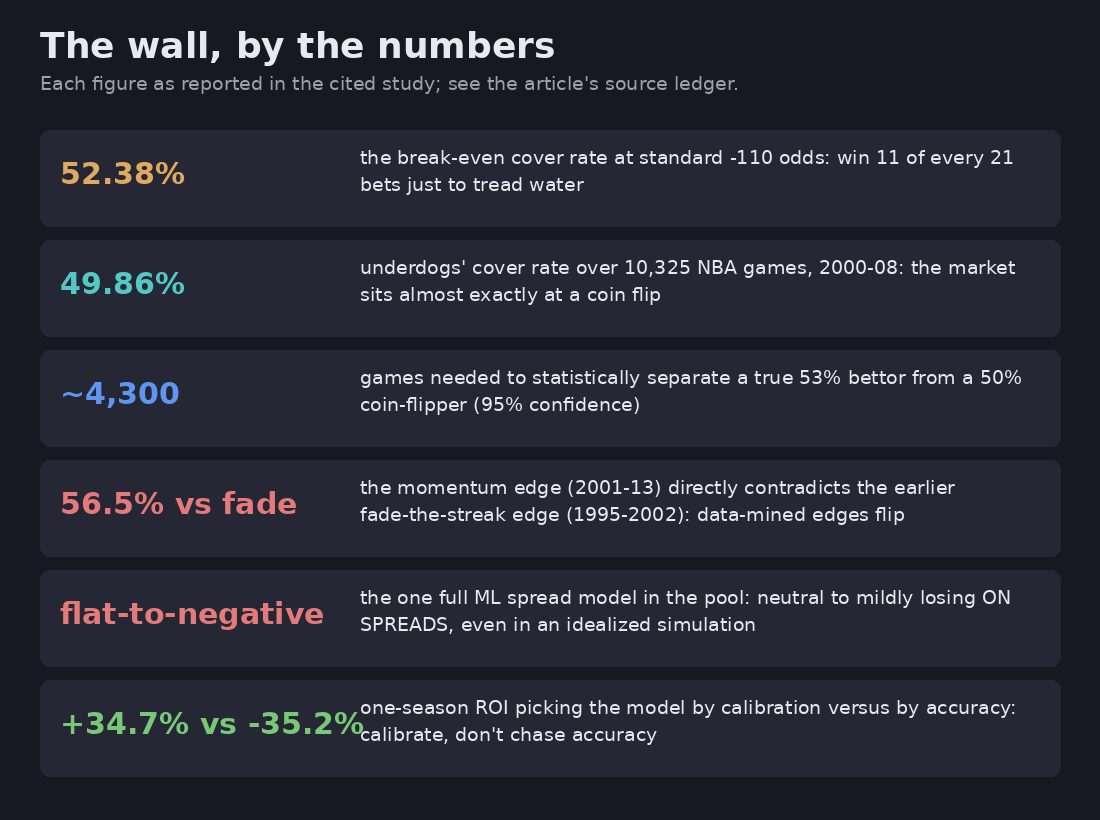
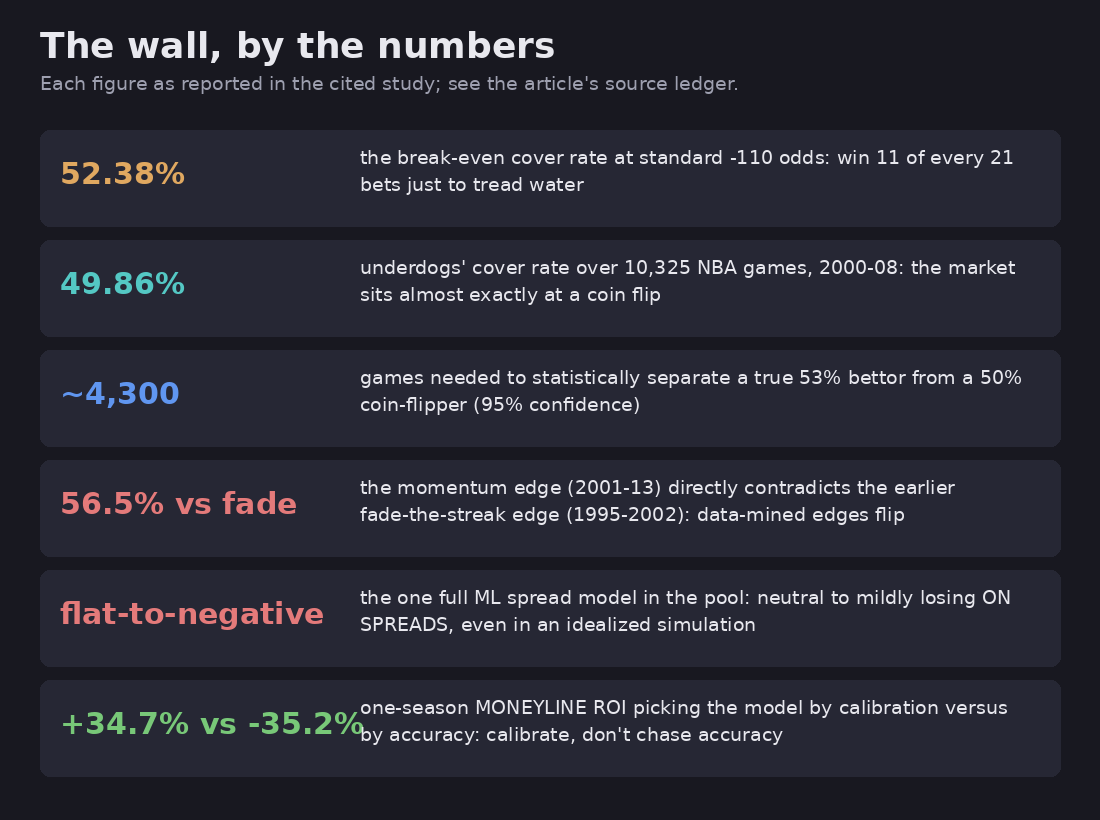
basketball articles: full-text verified corrections

Changed region(s): [[0.34, 0.8537, 0.9273, 0.9146]]

diff --git a/content/topics/games/basketball-ats-model/index.md b/content/topics/games/basketball-ats-model/index.md
@@ -52,8 +52,19 @@ profits appeared on moneylines, from calibrated probabilities plus disciplined s
 and the authors read their own result as evidence that spreads "are more efficiently
 priced."
 
-![Diagram: the wall, by the numbers. 52.38 percent is the break-even cover rate at -110. 49.86 percent was the underdog cover rate over 10,325 NBA games from 2000 to 2008, almost exactly a coin flip. About 4,300 games are needed to statistically separate a true 53 percent bettor from a coin-flipper at 95 percent confidence. The 56.5 percent momentum edge of 2001-2013 directly contradicts the earlier fade-the-streak edge of 1995-2002, showing data-mined edges flip. The one full machine-learning spread model in the pool was flat-to-negative on spreads even in an idealized simulation. Choosing a model by calibration versus accuracy produced one-season ROI of plus 34.7 percent versus minus 35.2 percent.](img/the-wall.png)
+![Diagram: the wall, by the numbers. 52.38 percent is the break-even cover rate at -110. 49.86 percent was the underdog cover rate over 10,325 NBA games from 2000 to 2008, almost exactly a coin flip. About 4,300 games are needed to statistically separate a true 53 percent bettor from a coin-flipper at 95 percent confidence. The 56.5 percent momentum edge of 2001-2013 directly contradicts the earlier fade-the-streak edge of 1995-2002, showing data-mined edges flip. The one full machine-learning spread model in the pool was flat-to-negative on spreads even in an idealized simulation. Choosing a model by calibration versus accuracy produced one-season moneyline ROI of plus 34.7 percent versus minus 35.2 percent.](img/the-wall.png)
 *The wall, in six sourced numbers. Diagram.*
+
+FACT: the one paper claiming "above market returns" across these leagues (arXiv
+1910.08858, full text now verified) turns out to prove a subtler point: its strategy
+bets moneylines only, taking the best price across sixteen sportsbooks, and its own
+random-bet baselines show random *spread* bets losing about 4.4 percent everywhere
+(the NBA confidence interval excludes zero), with the authors concluding they "cannot
+reject the null hypothesis that sports betting markets are jointly efficient." Their
+reported NBA returns of 9 to 11 percent came with selection thresholds tuned on the
+same sample being scored, and much of the edge is price-shopping across books rather
+than out-predicting any one of them. Assessment: even the pool's boldest inefficiency
+claim, read in full, is a moneyline line-shopping result, not a spread-beating model.
 
 Assessment: none of this means "don't build the model." It means the model's job is
 different than beginners assume: you are not trying to predict basketball, you are
@@ -71,11 +82,15 @@ margin-prediction route has real support in the literature: an arXiv study predi
 NCAA margins from team rankings alone and found even simple regressions "fairly
 accurate," and the best pre-game NBA score model in the pool (Chen et al., *Entropy*
 2021) reached a mean error of about 8.2 percent on team scores (RMSE roughly 11.5
-points) using only statistics from previous games. Assessment: hold that 11.5-point
-RMSE next to the fact that the average NBA spread misses the actual margin by a
-similar order, and you see the game you are in: you and the market are both throwing
-darts with wide error bars at the same board, and you win only by being *slightly*
-less wrong, thousands of times.
+points) using only statistics from previous games. FACT: the same NCAA study's full text
+gives the head-to-head this article needs: on 1,506 identical validation games, the
+Vegas line predicted margins with an RMSE of 10.34 points while the best rankings-only
+model managed 10.92, and the authors compute an irreducible noise floor around 11.2,
+meaning the models were already near the ceiling and the line *still* beat them by
+half a point. Assessment: that is the game you are in, stated as one number: you and
+the market are both throwing darts with wide error bars at the same board, the
+market's aim is measurably better, and you win only by being *slightly* less wrong,
+thousands of times.
 
 ## The data stack (all of it accessible to one person)
 
@@ -116,9 +131,9 @@ What the evidence says earns its place:
 
 - **Efficiency differential above all.** FACT: in the one study that ran formal
   feature selection across 44 team statistics (Zhao et al., *Entropy* 2023), the
-  efficiency differential dominated both random-forest importance (0.38) and LASSO
-  weights (0.36), with defensive rating and floor impact next; nothing else came
-  close.
+  efficiency differential dominated both selectors, leading random-forest importance
+  at 0.38 (defensive rating and floor impact next by that measure) and LASSO at
+  0.36; nothing else came close.
 - **Rolling averages of prior games only.** FACT: Chen et al. tuned how many previous
   games to average and found four games optimal for score prediction, with defensive
   rebounds, two-point percentage, free-throw percentage, offensive rebounds, assists,
@@ -156,13 +171,26 @@ Deep options exist (an LSTM/Transformer NCAA study reached AUC 0.847), but nothi
 the pool suggests they matter more than features and validation.
 
 Then calibrate, because the betting decision consumes probabilities, not accuracy.
-FACT: the pool's most directly on-point experiment (arXiv 2303.06021, later published
-in *Machine Learning*) trained NBA models across several seasons, bet a held-out
-season at published odds, and reports that selecting the model by *calibration* versus
-by *accuracy* produced an average return of +34.69 percent versus -35.17 percent.
+FACT: the pool's most directly on-point experiment (Walsh and Joshi, arXiv 2303.06021,
+published in *Machine Learning with Applications*; full text verified) trained NBA
+models on the 2014-2018 seasons and bet the 2018-19 season at published closing
+odds. Selecting the model by *calibration* versus by *accuracy* produced an average
+return of +34.69 percent versus -35.17 percent, across roughly 1,100 bets. FACT: read
+the fine print, which we did in the full text: the experiment is **moneyline** betting,
+not spreads; both branches used the same algorithm (an SVM) differing in feature
+choice; and the accuracy branch's -35 percent average hides a split of +5.56 percent
+on flat stakes versus -75.9 percent under eighth-Kelly, so the real lesson is that
+*miscalibrated probabilities plus Kelly sizing equals ruin*. The authors themselves
+warn a single season proves little.
 FACT: the conformal-prediction NCAA study makes the same argument from the other
 direction: its win probabilities were "better calibrated than other methods" across
-seven seasons of college data, which is the property a bettor actually needs.
+seven seasons of college data, and its full text explicitly extends the method to
+spread betting by estimating the probability that the margin of victory lands at or
+under the spread, a distribution-free statistical basis for exactly the
+margin-to-cover-probability step in the skeleton below. FACT: the NCAA deep-learning
+study adds loss-function-level support: training on Brier loss roughly halved
+calibration error versus standard cross-entropy (ECE 2.3 versus 4.1 percent in its
+men's-tournament table).
 Assessment: isotonic regression or Platt scaling on a held-out validation season is
 the practical move; check the calibration curve, not just the score.
 
@@ -191,8 +219,8 @@ feed the model the *predicted game's own box score*: the PLOS paper is explicit 
 accuracy is 72 percent at halftime, 79.8 percent through three quarters, and 93.3
 percent with the full game, none of which exists before tip-off. FACT: honest pre-game
 NBA winner accuracy in the pool's survey runs roughly 60 to 76 percent, and the
-graph-network paper that assembled that survey itself used random splits and a graph
-that wired each game to the team's *next* game. Assessment: the recurring failure is
+graph-network paper that assembled that survey itself wired each game's graph to the
+team's *next* game, letting future structure leak into training. Assessment: the recurring failure is
 letting the future touch the training set, and the fix is mechanical: **temporal
 splits only**, walking forward season by season, exactly as the 2026 *Information*
 study does (train through 2022, validate 2023, test 2024) — the only study in the
@@ -202,9 +230,15 @@ Then there is sample size. FACT (arithmetic, checkable): distinguishing a true 5
 percent cover rate from 50 percent at 95 percent confidence requires on the order of
 4,300 bets; an NBA season offers about 1,230 games, most of which you will not bet.
 FACT: the strongest cautionary tale in the pool is the Kaggle NCAA study whose entry
-*won* the tournament-prediction contest outright and whose authors then estimated,
-by simulation, that their winning entry had "no more than about a 12 percent chance"
-of winning; the placement was mostly luck. Assessment: a season of good results
+*won* the tournament-prediction contest outright and whose authors then estimated, by
+10,000 simulated tournaments, that the winning entry had "no more than about a 12
+percent chance" of winning, under 50 percent odds of even a top-ten finish, and in
+their words: "even if you knew the true probabilities of a win for every single game
+with certainty, you'd still only win about 1 in 8 times." FACT: the same full text
+hands the article its best design exemplar: the winning model was simply an ensemble
+of a logistic regression on the Vegas point spread and a logistic regression on
+KenPom adjusted efficiencies — the line as a prior, blended with public efficiency
+numbers. Assessment: a season of good results
 proves almost nothing; plan to judge yourself over years, or on the sharper proxy in
 the next section.
 
@@ -241,8 +275,13 @@ that has already priced the stats you can compute. The NCAA offers 365 teams, wi
 variance, free adjusted-efficiency infrastructure (Torvik), and thinner betting
 attention on small-conference games. FACT: the NCAA-side evidence in the pool is
 about winners and brackets, not spreads: rankings alone predict margins tolerably,
-fusing ten public ranking systems beat the best single system 74.60 to 73.02 percent,
-and no captured source tests NCAA spread efficiency at all. Speculation: that
+and a rank-fusion study's ensemble of five machine-learning models beat the best of
+ten public ranking systems 74.60 to 73.02 percent (a correction from this article's
+first edition, which misread the abstract as fusing the ranking systems themselves;
+the full text says otherwise). Direct NCAA spread-efficiency tests remain absent from
+the pool, though the "Beating the House" full text's random-bet baseline had random
+NCAAB spread bets losing about 4.4 percent, and older literature it summarizes found
+at most limited, era-bound inefficiencies. Speculation: that
 absence cuts both ways, and if you want a research project rather than a donation to
 a sportsbook, small-conference NCAA spreads are the least-studied corner in this
 entire source pool.
@@ -266,11 +305,16 @@ entire source pool.
 
 Assessment: the build mechanics (data sources, features, walk-forward validation,
 calibration) rest on full-text peer-reviewed studies and tool documentation and are
-solid. The market-efficiency picture rests on one large but dated NBA study
-(2000-2008), one modern full-text modeling study (2026), and two abstract-only
-papers whose headline numbers (the +34.69 percent calibration ROI, the "above market
-returns" claim) could not be verified beyond their abstracts; treat those specific
-figures as reported, not confirmed. Nothing here tests NCAA spreads directly. And
+solid. Since first publication, the full texts of every arXiv source have been pulled
+and verified line by line, which upgraded this article twice over: the headline
+calibration ROI is confirmed but is a *moneyline* result with a Kelly blow-up inside
+its accuracy branch, the boldest inefficiency claim turned out to be moneyline
+line-shopping across sixteen books with in-sample-tuned thresholds, and one claim in
+the first edition was corrected outright (the bracket-fusion study fused five machine
+learning models, not the ten public ranking systems it was benchmarked against). The
+market-efficiency picture still leans on one large but dated NBA study (2000-2008)
+plus one modern full-text modeling study (2026), and direct NCAA spread-efficiency
+tests remain absent beyond random-bet baselines. And
 the deepest caveat is structural: every published edge in this pool either faded,
 reversed in the next era's data, or survived only in an idealized simulation, so the
 honest prior for your own model is that it will be well-calibrated, instructive, and
@@ -302,7 +346,8 @@ that you will never read a "60 percent guaranteed winners" pitch the same way ag
 - Uncertainty-Aware Machine Learning for NBA Forecasting in Digital Betting Markets,
   *Information* 17(1):56 (2026) — https://doi.org/10.3390/info17010056
 - Walsh & Joshi, "Machine learning for sports betting: should model selection be
-  based on accuracy or calibration?" (arXiv, abstract) — https://arxiv.org/abs/2303.06021
+  based on accuracy or calibration?", *Machine Learning with Applications* (full text
+  verified; moneyline experiment) — https://arxiv.org/abs/2303.06021
 - Zhao, Du & Tan, GCN with feature selection for NBA prediction, *Entropy* (2023) —
   https://www.ncbi.nlm.nih.gov/pmc/articles/PMC10217531/
 - Chen, Jhou, Lee & Lu, hybrid two-stage score prediction, *Entropy* (2021) —
@@ -311,14 +356,14 @@ that you will never read a "60 percent guaranteed winners" pitch the same way ag
   https://pmc.ncbi.nlm.nih.gov/articles/PMC11265715/
 - He & Choi, stacked ensemble NBA prediction, *Scientific Reports* (2025) —
   https://www.nature.com/articles/s41598-025-13657-1
-- Zimmermann et al., NCAAB match prediction (arXiv, abstract) — https://arxiv.org/abs/1310.3607
-- Lopez & Matthews / Kaggle NCAA contest analysis (arXiv, abstract) — https://arxiv.org/abs/1412.0248
-- Margin of victory from rankings, NCAA (arXiv, abstract) — https://arxiv.org/abs/1701.07316
-- Conformal win probability for March Madness (arXiv, abstract) — https://arxiv.org/abs/2208.08598
-- LSTM/Transformer NCAA forecasting (arXiv, abstract) — https://arxiv.org/abs/2508.02725
-- Combinatorial fusion for brackets (arXiv, abstract) — https://arxiv.org/abs/2603.10916
-- "Beating the House" (arXiv, abstract; claims unverified beyond abstract) —
-  https://arxiv.org/abs/1910.08858
+- Zimmermann et al., NCAAB match prediction (arXiv, full text) — https://arxiv.org/abs/1310.3607
+- Lopez & Matthews, Kaggle NCAA contest luck analysis (arXiv, full text) — https://arxiv.org/abs/1412.0248
+- Margin of victory from rankings, NCAA (arXiv, full text; line-vs-model RMSE) — https://arxiv.org/abs/1701.07316
+- Conformal win probability for March Madness (arXiv, full text) — https://arxiv.org/abs/2208.08598
+- LSTM/Transformer NCAA forecasting (arXiv, full text) — https://arxiv.org/abs/2508.02725
+- Combinatorial fusion for brackets (arXiv, full text) — https://arxiv.org/abs/2603.10916
+- "Beating the House" (arXiv, full text; moneyline line-shopping, thresholds tuned
+  in-sample) — https://arxiv.org/abs/1910.08858
 - Gibbs, "Point Shaving in the NBA", Stanford honors thesis (2007, abstract) —
   https://purl.stanford.edu/nh108vv2047
 - Tools: nba_api — https://github.com/swar/nba_api · hoopR —

diff --git a/content/topics/games/basketball-ats-model/how-to-discover.md b/content/topics/games/basketball-ats-model/how-to-discover.md
@@ -47,9 +47,12 @@ baseline on the locked benchmark did not happen.
 FACT: a 2024 data-centric study (Tschalzev et al.) rebuilt expert-level,
 dataset-specific preprocessing for ten Kaggle competition datasets and found that
 after real feature engineering "model rankings change considerably, performance
-differences decrease, and the importance of model selection reduces," and that even
-the newest models "still significantly benefit from manual feature engineering."
-FACT: the TabPFN authors, whose model is the strongest argument ever made for
+differences decrease, and the importance of model selection reduces," and that recent
+models "still significantly benefit from manual feature engineering." FACT: its full
+text puts a number on the priority order: without feature engineering, the best
+achievable average leaderboard position was the 14.5th percentile; without model
+selection, the 3rd — feature work mattered roughly five times more than model choice
+on that measure. FACT: the TabPFN authors, whose model is the strongest argument ever made for
 automated tabular learning, say the same in their Nature paper's guidance: data
 scientists "should continue to apply their skills and insights in feature
 engineering, data cleaning and problem framing." Assessment: read those two together
@@ -80,21 +83,37 @@ argument was settled the way all good arguments are: on shared benchmarks.
 against tree methods on 45 datasets and concluded "tree-based models remain
 state-of-the-art on medium-sized data (~10K samples)," explaining the gap through
 inductive bias: trees are robust to uninformative features and happily learn the
-irregular, jumpy functions real tabular data contains.
+irregular, jumpy functions real tabular data contains. FACT: its most elegant
+experiment, visible only in the full text: randomly *rotating* the feature space
+reverses the ranking entirely, neural networks beating trees — evidence that trees
+win because tabular columns carry individual meaning, which is precisely why
+engineered features (an efficiency differential, a rest-day flag) beat learned
+mixtures on data like basketball's.
 
 **Act two — deep learning claws back, one tweak at a time.** FACT: TabR (2023)
 added a retrieval component (a nearest-neighbors-like lookup inside a feed-forward
-network) and beat gradient-boosted trees "even on the recently proposed
-'GBDT-friendly' benchmark"; TabM (2024) got the best tabular deep-learning results
+network) and beat gradient-boosted trees on average, with tuning, "even on the
+recently proposed 'GBDT-friendly' benchmark" (not on every dataset, per its full
+results); TabM (2024) got the best tabular deep-learning results
 by making one network imitate an ensemble of MLPs, with predictions that are "weak
 individually, but powerful collectively"; and a 2024 seventeen-method benchmark
 declared "a paradigm shift, where Deep Learning methods outperform classical
-approaches." FACT: the most balanced current summary (TALENT, 300+ datasets) lands
-in between: gradient-boosted trees "remain very strong baselines," newer pretrained
-models "match or surpass them on many tasks, narrowing — but not eliminating — the
-historical advantage," and *which* family wins is largely determined by the
-dataset's shape; one 111-dataset study even trained a meta-model that predicts when
-deep learning will win with 86.1 percent accuracy. Assessment: notice what the
+approaches" — and its full text shows what that shift actually rests on: the top of
+its leaderboard is in-context learners (TabICL, TabPFNv2) and TabM, with median
+ranks of roughly 2-5 versus CatBoost's 5.5 and XGBoost's 7, while fine-tuned
+foundation models ranked *worst* of the deep family, and the paper concedes the gap
+between the boosted trees and the top three is not statistically significant in its
+critical-difference analysis. FACT: the most balanced current summary (TALENT, 300+
+datasets) lands close by: gradient-boosted trees "remain very strong baselines,"
+newer pretrained models "match or surpass them on many tasks, narrowing — but not
+eliminating — the historical advantage," and which family wins is largely determined
+by *feature-space heterogeneity* (the interplay of categorical and numerical
+attributes, sparsity, and entropy variance), not raw dataset size. FACT: a
+111-dataset meta-study makes the size point directly: dataset size did **not**
+significantly predict whether deep learning wins (p = 0.97); heavy-tailed feature
+distributions and classification-versus-regression did, and its meta-model predicts
+the winner with 86.1 percent accuracy (trained on the 36 datasets with statistically
+significant gaps). Assessment: notice what the
 winning tweaks were — retrieval and ensembling, not exotic architectures — and that
 every benchmark in this pool agrees on one thing: **ensembling helps everyone,
 always**.
@@ -108,10 +127,14 @@ won on the very benchmark where trees had been declared unbeatable. FACT: the sa
 paper is admirably blunt about limits: inference is ~1,000x slower per prediction
 than CatBoost, memory scales with dataset size, and "for larger datasets and highly
 non-smooth regression... CatBoost, XGB or AutoGluon are likely to outperform
-TabPFN"; its successors claim to push the ceiling to 50,000 rows with a "100 percent
-win rate against default XGBoost" on small data, though those newer numbers are
-author-reported abstracts from a team with a disclosed commercial stake (PriorLabs),
-so hold them as claims, not settled fact. FACT: one contextual number explains why
+TabPFN"; its successors claim to push the ceiling to 50,000 rows and 2,000 features, with
+a "100 percent win rate against default XGBoost" on small-to-medium *classification*
+(default versus default; regression needs real tuning to match AutoGluon, per the
+full text). Those numbers are author-reported by a team with a disclosed commercial
+stake (PriorLabs), and one practical caveat matters for this article's readers: the
+newest model's license bars commercial use of its outputs without an enterprise
+agreement, which includes betting decisions, so check licensing before building on
+it. FACT: one contextual number explains why
 this matters so much: 76 percent of the datasets on OpenML have fewer than 10,000
 rows. Assessment: an NBA season is about 1,230 games and even five seasons of
 basketball is a *small* dataset by these standards — meaning your project sits
@@ -128,8 +151,9 @@ covering tabular analysis, random forests and gradient boosting; it asks for abo
 year of coding and high-school math, and its compute advice is to use free cloud
 notebooks). Get a strong baseline embarrassingly fast with **AutoGluon** — FACT: its
 canonical example is literally three lines (`TabularPredictor(label=...).fit(train)`,
-then predict), and its stacked ensembles are the standard the field's papers measure
-themselves against. Track every experiment in **MLflow** (experiment tracking, model
+then predict), and its stacked ensembles are a standard strong baseline the field's
+papers benchmark against (the TabPFN line reports matching AutoGluon's four-hour
+ensembles as its headline result). Track every experiment in **MLflow** (experiment tracking, model
 registry, lifecycle management) so that "which tweak helped" is a query, not a
 memory. Inspect models with **SHAP**. And treat **Kaggle** as the apprenticeship:
 FACT: the March Machine Learning Mania competition has run NCAA-prediction contests
@@ -194,11 +218,13 @@ goes in further reading, unverified.)
 
 ## How much to trust this
 
-Assessment: the trust profile here is honest but mixed. The load-bearing state-of-
-the-art claims rest on one full-text *Nature* paper (whose authors disclose a
-commercial affiliation, and whose numbers on small data are the best-verified in
-this pool) plus nine arXiv abstracts, from which fine-grained results cannot be
-checked; the sequencing advice and the error-analysis workflow are practitioner
+Assessment: the trust profile improved substantially after first publication: the
+full texts of all ten arXiv papers were pulled and every cited claim verified against
+them, which confirmed the quotes verbatim, sharpened several (the TALENT
+heterogeneity finding, the meta-study's size result, TabR's on-average caveat), and
+surfaced the TabPFN licensing restriction. The load-bearing numbers now rest on one
+full-text *Nature* paper (authors disclose a commercial affiliation) plus verified
+full texts; the sequencing advice and the error-analysis workflow remain practitioner
 judgment, labeled as Assessment throughout. The parlay economics come from betting-
 industry explainers of varying quality: the hold ladder converges across four
 independent sources and one near-regulatory figure (NJ 19.9 percent), but exact
@@ -223,23 +249,23 @@ every step up the parlay ladder pays the house more.
 
 ## Sources
 
-- Gorishniy et al., "Revisiting Deep Learning Models for Tabular Data" (arXiv,
-  abstract) — https://arxiv.org/abs/2106.11959
+- Gorishniy et al., "Revisiting Deep Learning Models for Tabular Data" (arXiv, full
+  text) — https://arxiv.org/abs/2106.11959
 - Grinsztajn, Oyallon & Varoquaux, "Why do tree-based models still outperform deep
-  learning on tabular data?" (arXiv, abstract) — https://arxiv.org/abs/2207.08815
+  learning on tabular data?" (arXiv, full text) — https://arxiv.org/abs/2207.08815
 - Hollmann et al., "Accurate predictions on small data with a tabular foundation
   model" (TabPFN), *Nature* 637:319-326 (2025, full text; PriorLabs affiliation
   disclosed) — https://www.nature.com/articles/s41586-024-08328-6
-- TabPFN v1 (arXiv, abstract) — https://arxiv.org/abs/2207.01848 · TabPFN-2.5
-  (arXiv, abstract; author-reported) — https://arxiv.org/abs/2511.08667
-- TabR (arXiv, abstract) — https://arxiv.org/abs/2307.14338 · TabM (arXiv,
-  abstract) — https://arxiv.org/abs/2410.24210
-- Zabërgja et al., "Tabular Data: Is Deep Learning All You Need?" (arXiv, abstract)
-  — https://arxiv.org/abs/2402.03970
-- TALENT benchmark (arXiv, abstract) — https://arxiv.org/abs/2407.00956 ·
-  111-dataset meta-study (arXiv, abstract) — https://arxiv.org/abs/2408.14817
+- TabPFN v1 (arXiv, full text) — https://arxiv.org/abs/2207.01848 · TabPFN-2.5
+  (arXiv, full text; author-reported, non-commercial license) — https://arxiv.org/abs/2511.08667
+- TabR (arXiv, full text) — https://arxiv.org/abs/2307.14338 · TabM (arXiv, full
+  text) — https://arxiv.org/abs/2410.24210
+- Zabërgja et al., "Tabular Data: Is Deep Learning All You Need?" (arXiv, full text;
+  revised 2025) — https://arxiv.org/abs/2402.03970
+- TALENT benchmark (arXiv, full text) — https://arxiv.org/abs/2407.00956 ·
+  111-dataset meta-study (arXiv, full text) — https://arxiv.org/abs/2408.14817
 - Tschalzev et al., "A Data-Centric Perspective on Evaluating Machine Learning
-  Models for Tabular Data" (arXiv, abstract) — https://arxiv.org/abs/2407.02112
+  Models for Tabular Data" (arXiv, full text) — https://arxiv.org/abs/2407.02112
 - Tools: fast.ai course — https://course.fast.ai/ · AutoGluon —
   https://github.com/autogluon/autogluon · MLflow — https://mlflow.org/docs/latest/
   · SHAP — https://shap.readthedocs.io/en/latest/
